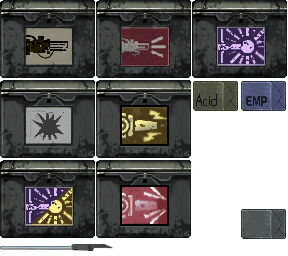
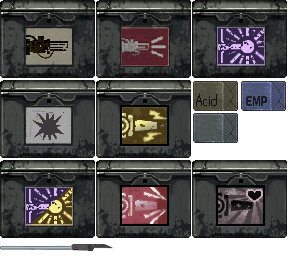
0.1.20 - added heart-shaped explosive ammo for flak cannon - optimized APHE Railgun Shell - changed price of chaingun scattering ammo box to 1.25 times the price of chaingun ammo box

Changed region(s): [[0.6562, 0.625, 1.0, 0.9375], [0.6562, 0.4375, 0.8438, 0.5625]]

diff --git a/README.md b/README.md
@@ -30,3 +30,4 @@ Coilgun
 Flak Cannon
   - Shock Flak Shells Box
   - Focused Armor-Piercing Flak Shells Box
+  - Heart-Shaped Explosive Flak Shells Box
